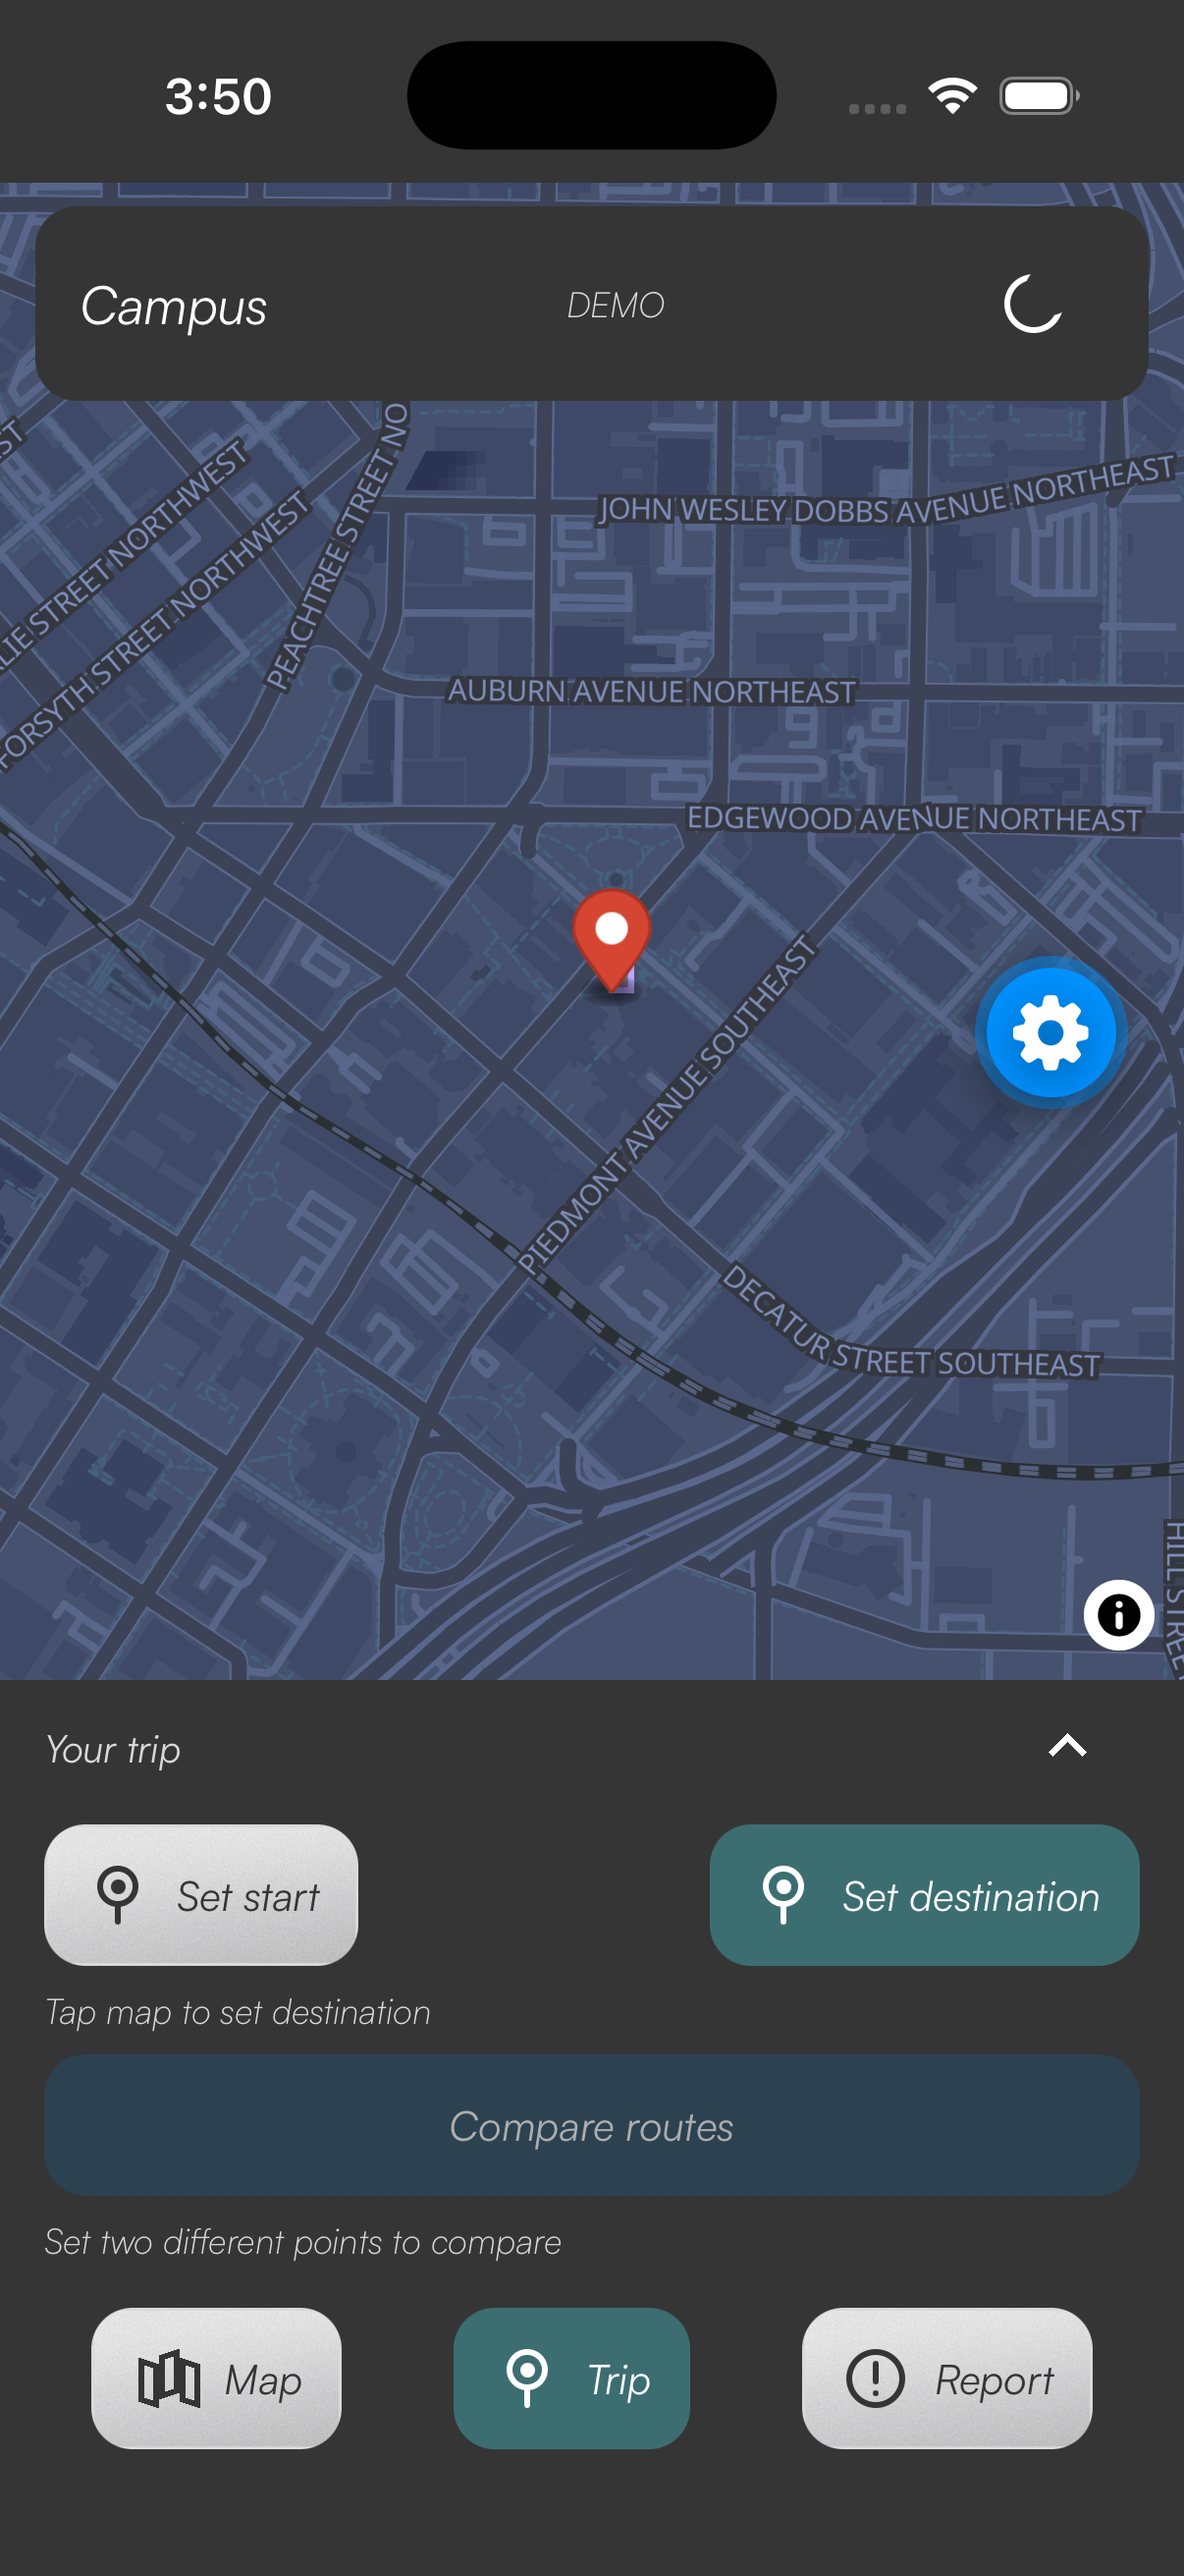
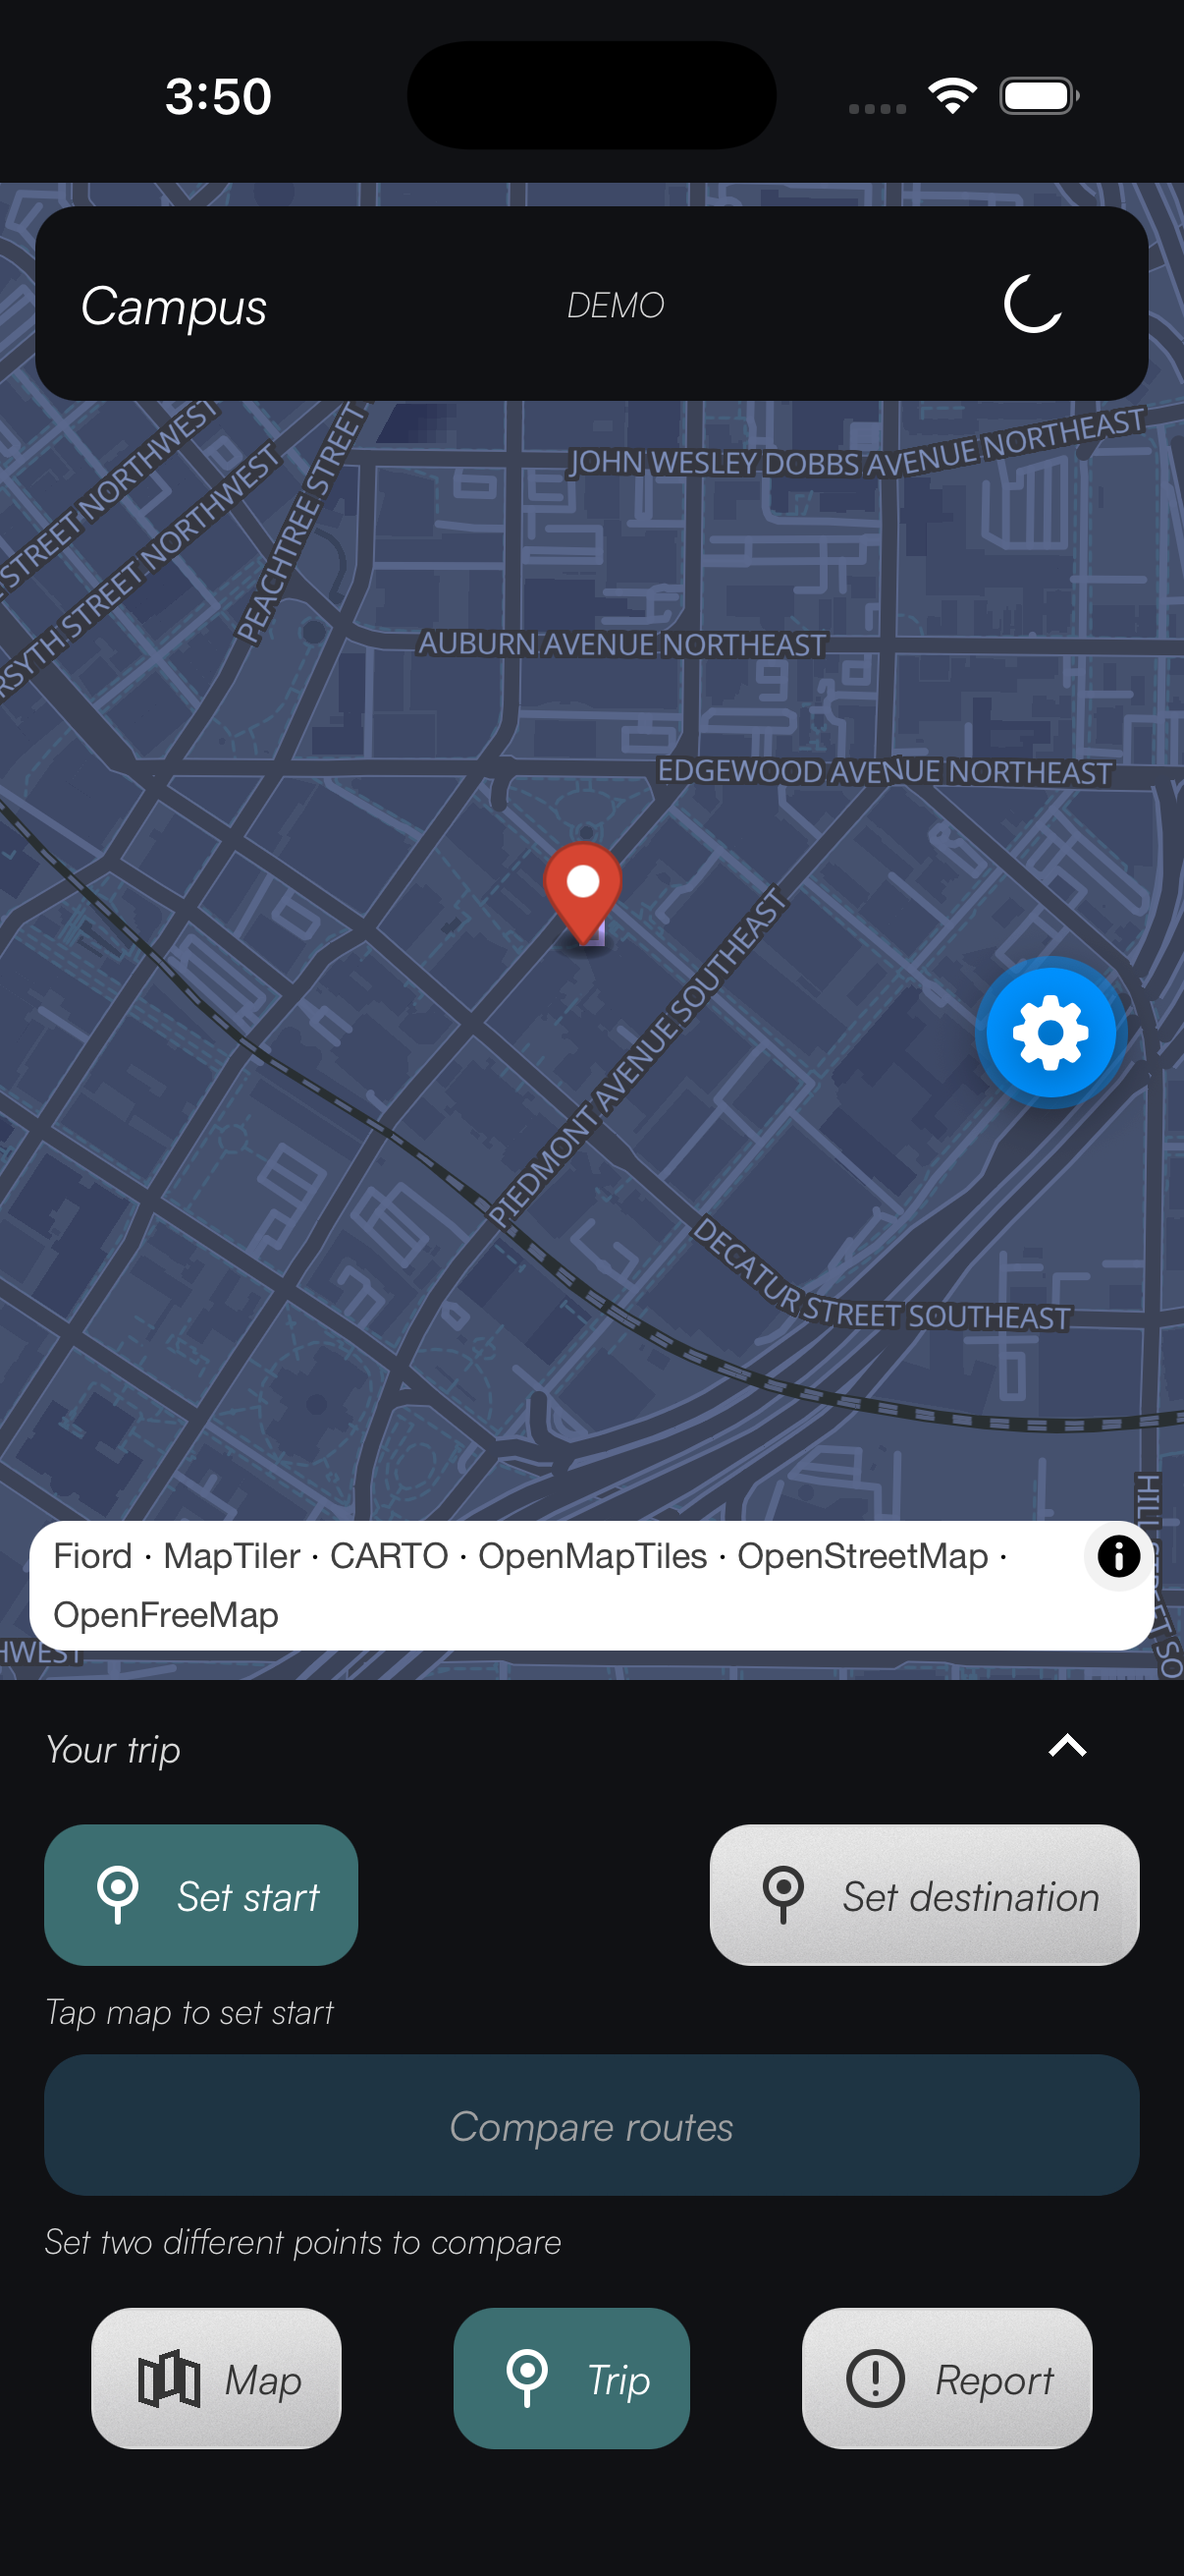
Deepen dark UI surfaces to near-black

diff --git a/mobile/src/ui/theme.ts b/mobile/src/ui/theme.ts
@@ -4,7 +4,7 @@ import { useColorScheme } from 'react-native';
 
 /** Operator palette: coolors.co/palette/353535-3c6e71-ffffff-d9d9d9-284b63 */
 export const palette = {
-  charcoal: '#353535', cyan: '#3c6e71', white: '#ffffff', silver: '#d9d9d9', blue: '#284b63',
+  nearBlack: '#101114', charcoal: '#353535', cyan: '#3c6e71', white: '#ffffff', silver: '#d9d9d9', blue: '#284b63',
 } as const;
 
 const light = {
@@ -20,8 +20,8 @@ const light = {
 };
 export type Theme = typeof light;
 const dark: Theme = {
-  ...light, ink: palette.white, muted: palette.silver, surface: palette.charcoal,
-  canvas: palette.charcoal, quiet: palette.silver, line: 'transparent',
+  ...light, ink: palette.white, muted: palette.silver, surface: palette.nearBlack,
+  canvas: palette.nearBlack, quiet: palette.silver, line: 'transparent',
   selectedEdge: palette.cyan, primaryEdge: palette.blue,
   warning: palette.silver, danger: '#ffb4ab', routeShortest: palette.silver,
 };

diff --git a/mobile/docs/UI-GUIDE.md b/mobile/docs/UI-GUIDE.md
@@ -37,7 +37,8 @@ See [decision 014](../../docs/decisions/014-silver-cyan-mobile-palette.md).
 
 | Color | Role |
 | --- | --- |
-| `#353535` charcoal | Light-mode text; dark-mode surfaces |
+| `#353535` charcoal | Light-mode text and text on metallic controls |
+| `#101114` near-black | Dark-mode panels and background, per operator refinement |
 | `#3c6e71` teal/cyan | Selected controls and lower-risk route accent |
 | `#ffffff` white | Light surfaces; selected/primary and dark-mode foreground |
 | `#d9d9d9` metallic silver | Light-mode dividers, metallic controls and dark-mode secondary foreground |
